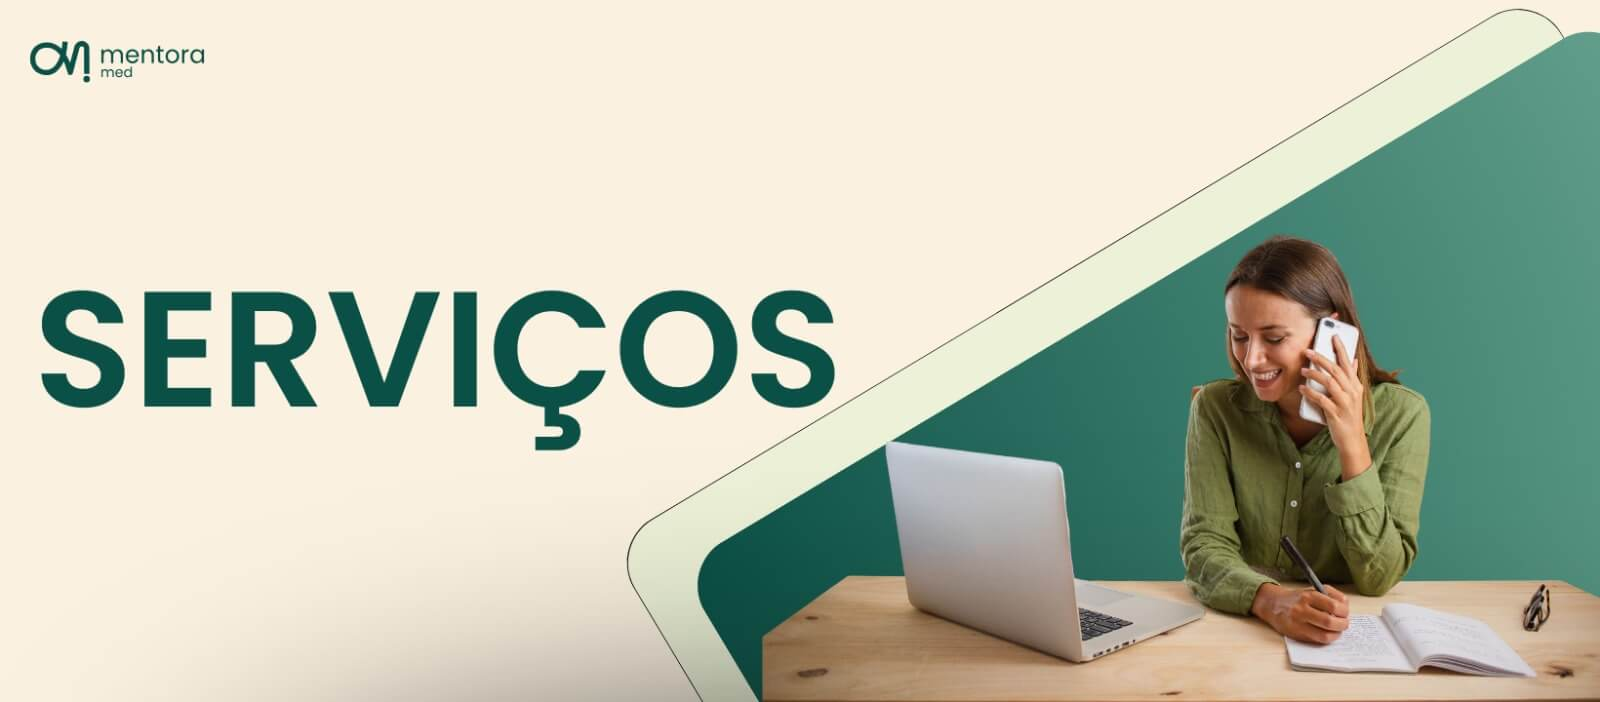
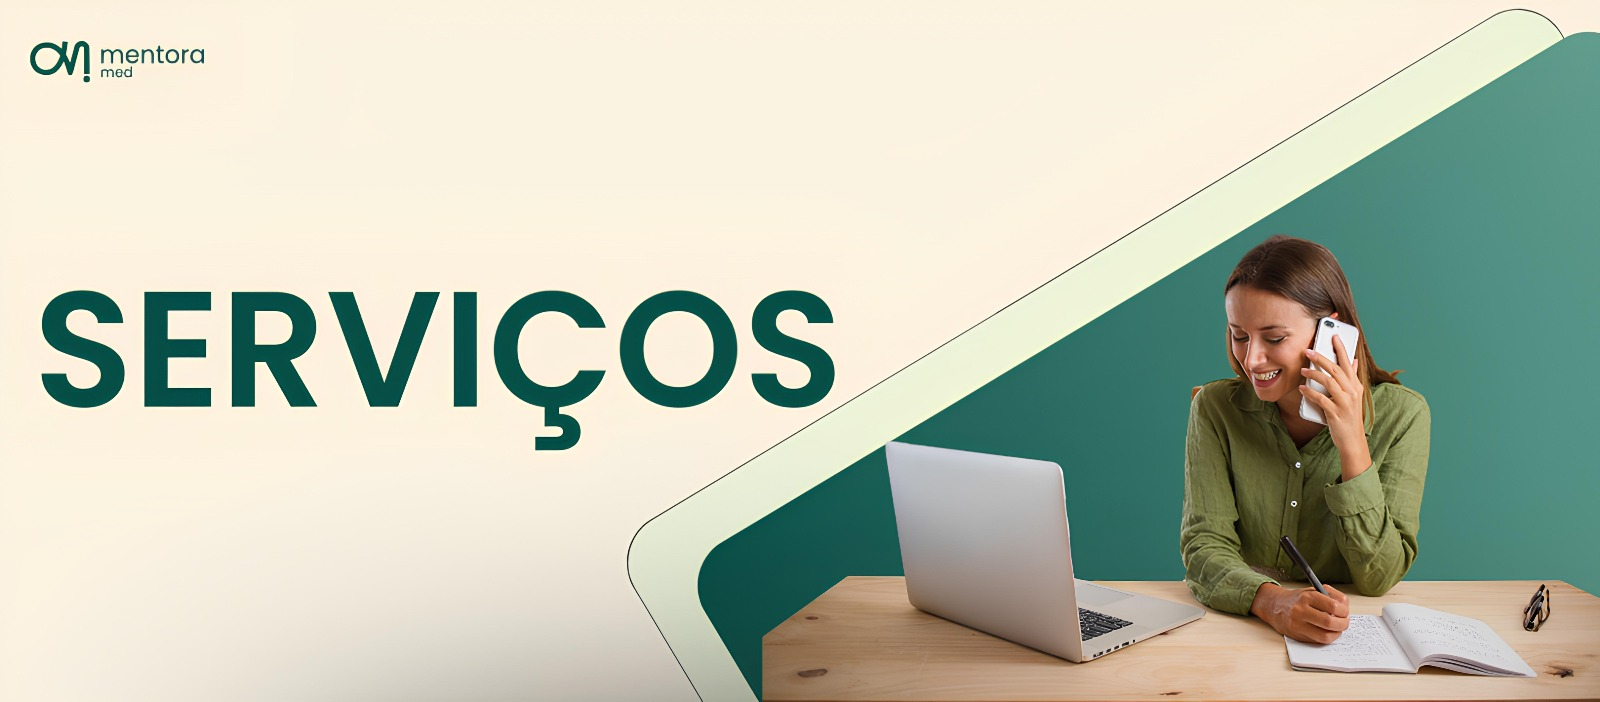
feat: update services image

diff --git a/src/assets/styles/style.css b/src/assets/styles/style.css
@@ -7184,7 +7184,7 @@ img.footer-logo {
 }
 
 #services-hero {
-  background-image: url(../images/services-image02.jpeg);
+  background-image: url(../images/services-image02-c.jpeg);
 }
 
 /*------------------------------------------*/
